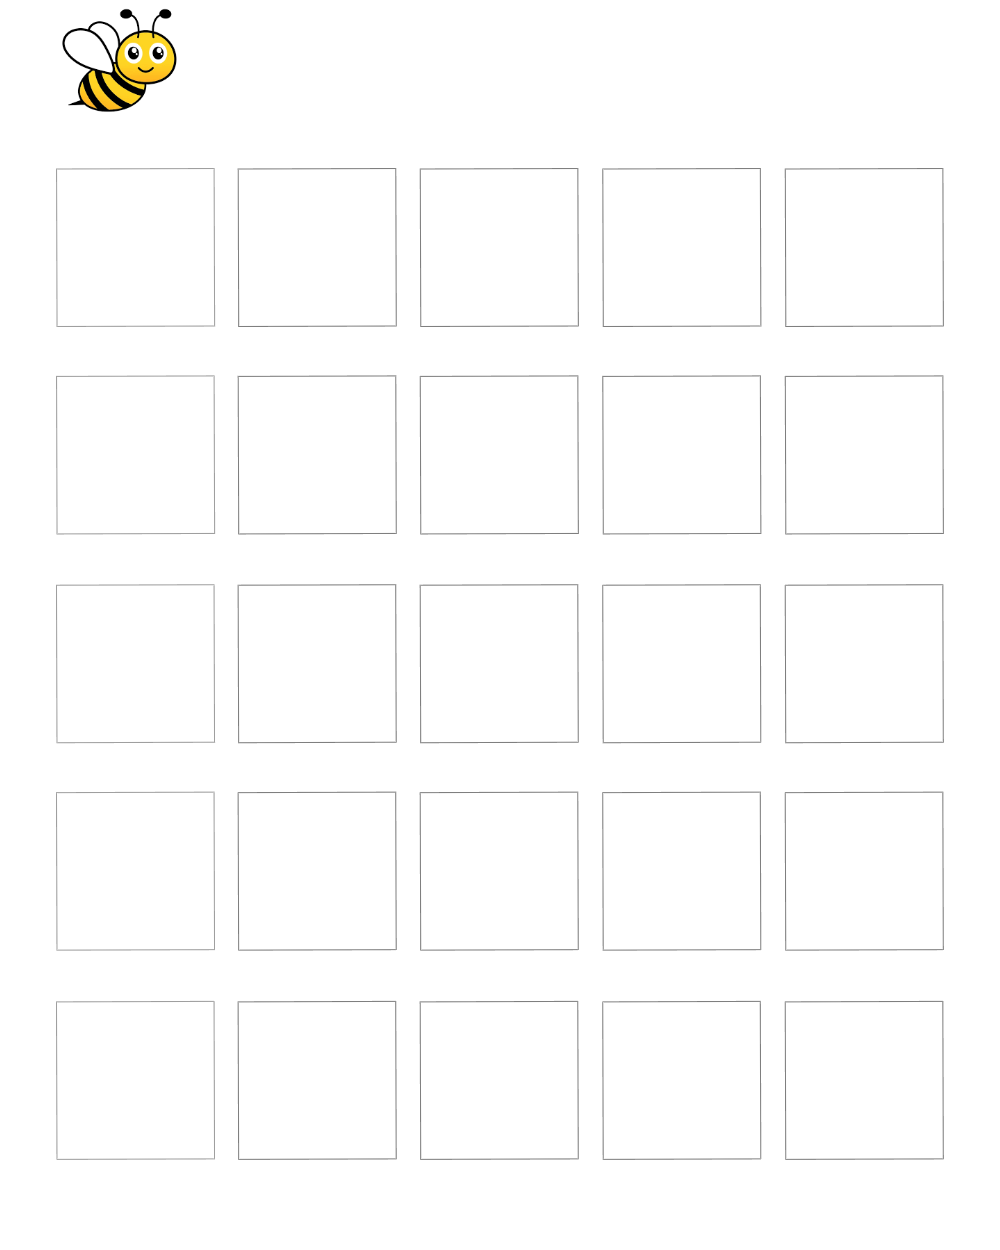
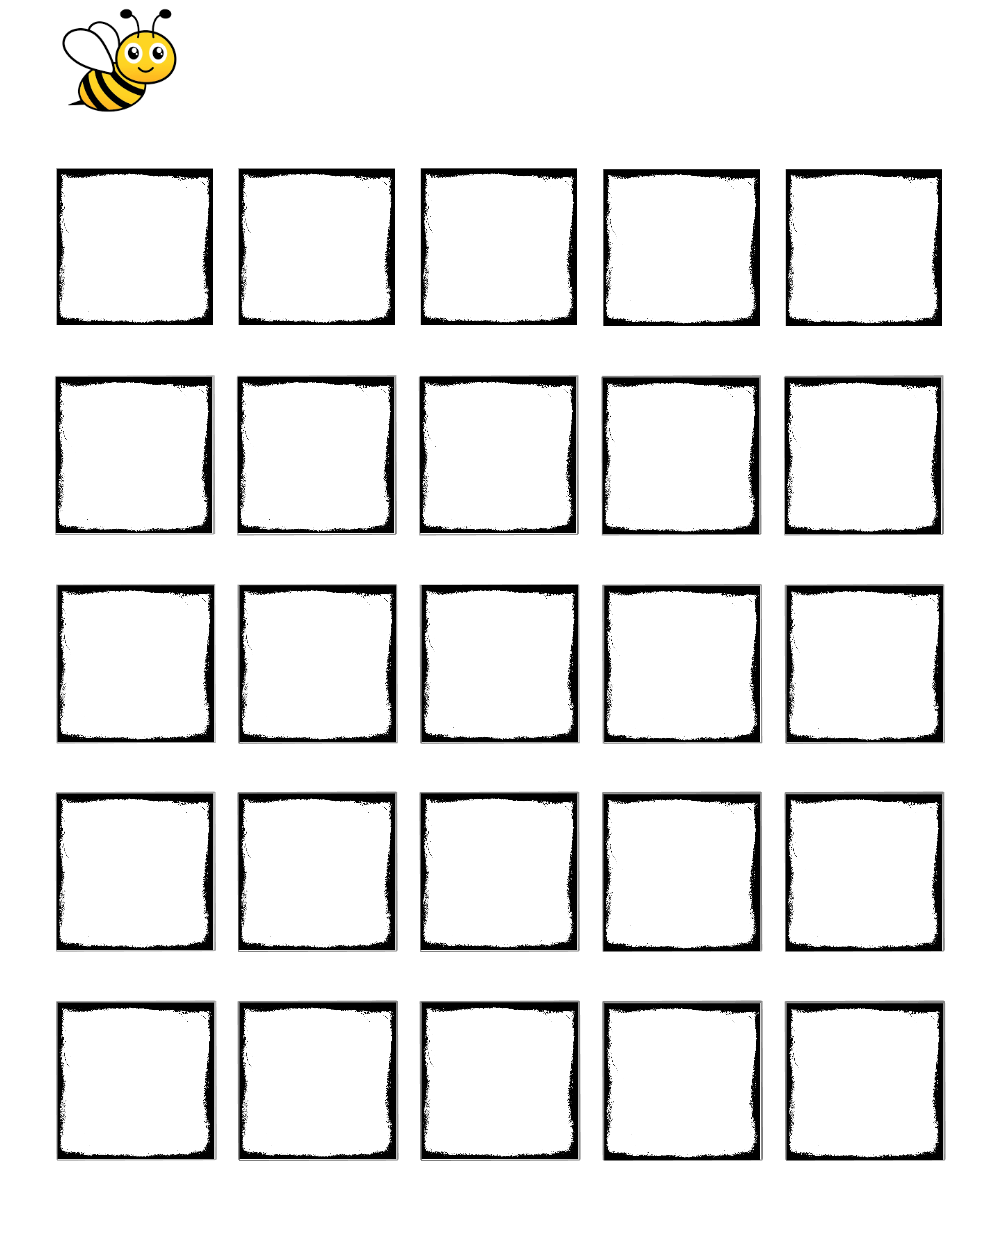
fixed graphics

Changed region(s): [[0.031, 0.624, 0.961, 0.936], [0.031, 0.1248, 0.961, 0.4368], [0.031, 0.468, 0.961, 0.5928]]

diff --git a/pygamemain.py b/pygamemain.py
@@ -11,7 +11,6 @@ screen = pygame.display.set_mode((1000, 1500))
 
 # set a background
 background = pygame.image.load("grid.png")
-exit = False
 
 # colours 
 white = (255, 255, 255)
@@ -19,50 +18,46 @@ green = (0, 200, 0)
 grey = (128, 128, 128)
 yellow = (255, 255, 0)
 black = (0, 0, 0)
-colour = white
-# positions
-X = 140
-Y = 250
-position1 = (0,0)
-position2 = (X, Y)
 
 # text details
 font = pygame.font.SysFont(None, 200)
-input_text = ''
-correct_letter = "A"
-correctish_letter = "Z"
-#letter_indent = letter_surface.get_rect(center = position2)
 
+user_input = ""
+correct_word = "WORDL"
 # input should be always active
-active = True
+running = True
 
-while True:
+while running:
+    screen.fill(white)
+    #screen.blit(background, (0, 0))
     for event in pygame.event.get():
-
         if event.type == pygame.QUIT:
-            pygame.quit()
-            sys.exit()
+            running = False
+            break
 
         if event.type == pygame.KEYDOWN:
             if event.key == pygame.K_BACKSPACE:
-                input_text = input_text[:-1]
-            else:
-                if len(input_text) < 1 and event.unicode.isalpha():
-                    input_text += event.unicode.upper()
-
-    
-    screen.fill(white)
-    screen.blit(background, dest = position1)
-    if input_text == correct_letter:
-        pygame.draw.rect(screen, green, pygame.Rect(56, 169, 158, 157))
-    elif input_text == correctish_letter: 
-        pygame.draw.rect(screen, yellow, pygame.Rect(56, 169, 158, 157))
-    pygame.draw.rect(screen, colour, pygame.Rect(239, 169, 158, 157))
-    pygame.draw.rect(screen, colour, pygame.Rect(421, 169, 158, 157))
-    pygame.draw.rect(screen, colour, pygame.Rect(604, 169, 158, 157))
-    pygame.draw.rect(screen, colour, pygame.Rect(786, 169, 158, 157))
-    #screen.blit(text_surface, dest = position2) 
-    text_surface = font.render(input_text, True, black)
-    text_rect = text_surface.get_rect(center = position2)
-    screen.blit(text_surface, text_rect)
+                user_input = user_input[:-1]
+            elif len(user_input) < 5 and event.unicode.isalpha():
+                    user_input += event.unicode.upper()
+    #screen.blit(background, (0, 0))
+    # Drwing the letters and highlight blocks
+    for i in range(len(user_input)):
+        letter = user_input[i]
+        x = 55 + i * 183
+        y = 170
+        color = grey
+        if i < len (correct_word):
+            if letter == correct_word[i]:
+                color = green
+            elif letter in correct_word:
+                color = yellow
+        pygame.draw.rect(screen, color, pygame.Rect(x, y, 156, 156))
+        text_surface = font.render(letter, True, black)
+        text_rect = text_surface.get_rect(center = (x + 79, y +78))
+        screen.blit(text_surface, text_rect)
+    screen.blit(background, (0, 0))
     pygame.display.update()
+pygame.quit()
+sys.exit()
+
